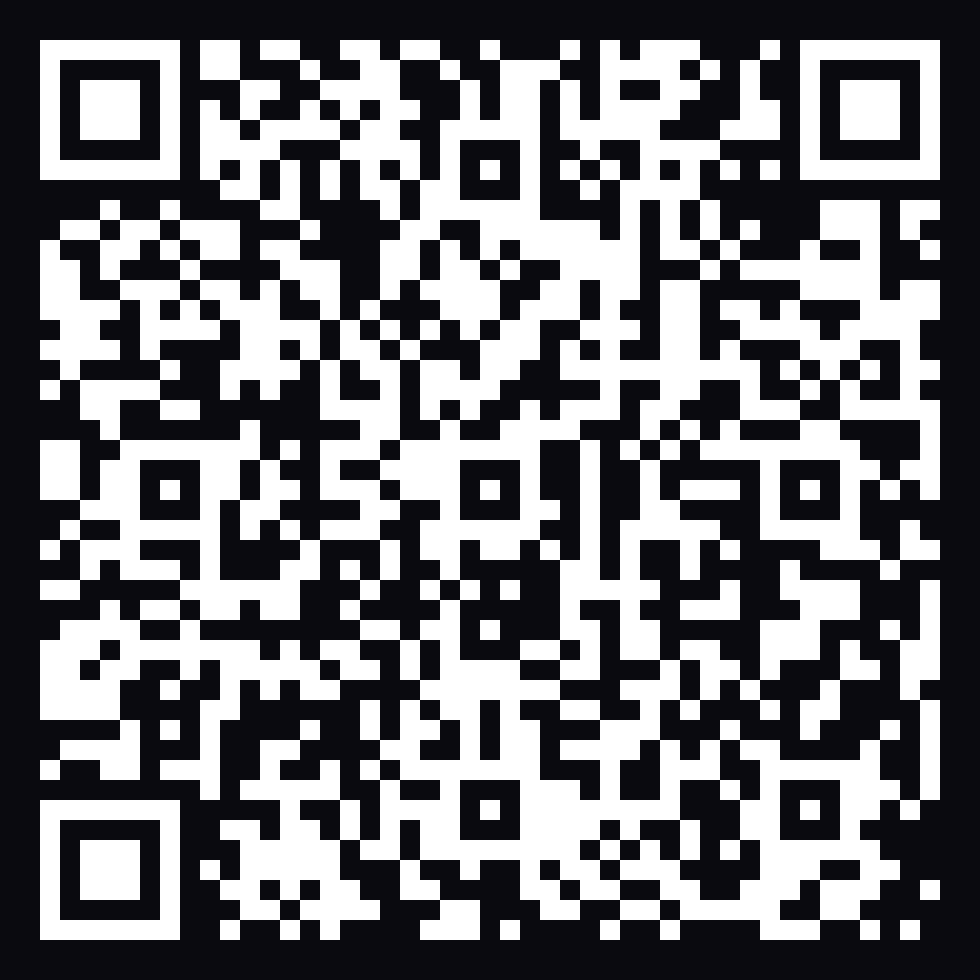
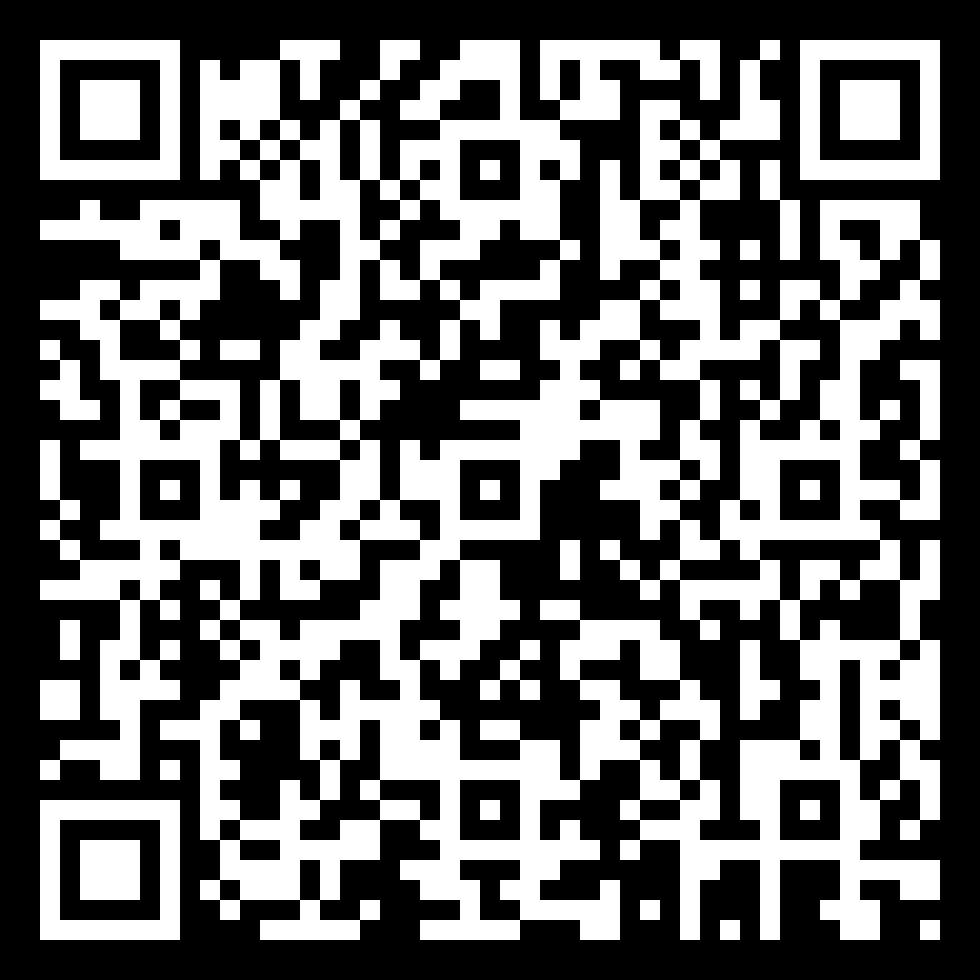
feat: update slides with new layout and add chat QR code image

diff --git a/starter/slides.md b/starter/slides.md
@@ -1234,28 +1234,28 @@ After an $isLoaded check, TypeScript narrows the type so everything is guarantee
 -->
 
 ---
-clicks: 5
 transition: fade
 ---
 
-# The Big Picture
+# Try It Live
 
-<div class="flex items-center justify-center h-[85%]">
-  <ChatFlowDiagram />
+<div class="grid grid-cols-2 gap-8 items-center h-[80%]">
+  <div class="flex flex-col items-center gap-4">
+    <img src="/chat-mobile-screenshot.png" class="h-[380px] rounded-xl shadow-lg border border-gray-700" />
+    <p class="text-sm text-gray-400">vue-jazz.vercel.app</p>
+  </div>
+  <div class="flex flex-col items-center gap-4">
+    <img src="/chat-qr.png" class="h-[300px] rounded-xl" />
+    <p class="text-lg text-gray-300 font-medium">Scan to join the chat</p>
+  </div>
 </div>
 
 <!--
-Before we code — the user journey.
+Before we code — try it yourself!
 
-CLICK: User A opens the app. Chat.create creates a new CoValue locally. No server round-trip.
-
-CLICK: The route changes to include the CoValue's unique ID. This URL IS the data.
-
-CLICK: User A shares this URL.
-
-CLICK: User B opens it. The app loads the same CoValue by ID. Both are now connected.
-
-CLICK: Both write to the same CoValue. Real-time sync. No API, no WebSocket boilerplate. Just shared data.
+Scan the QR code to open the live chat app on your phone.
+This is a real local-first app built with Vue and Jazz.
+Everyone scanning joins the same CoValue — real-time sync, no server logic.
 
 Now let's build this step by step...
 -->
